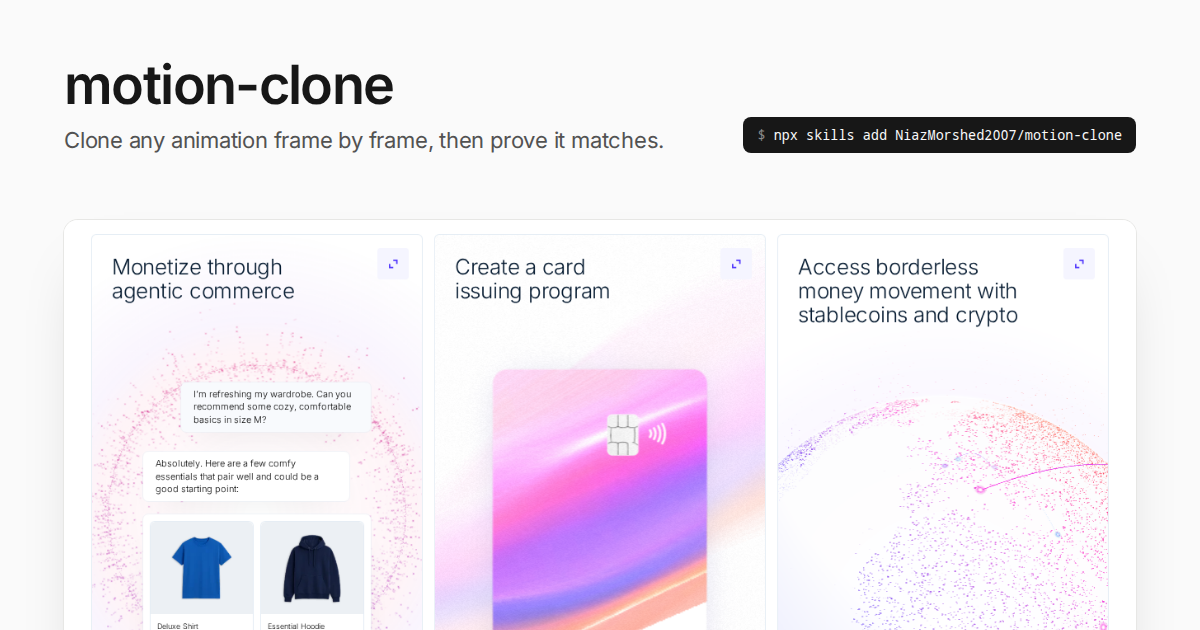
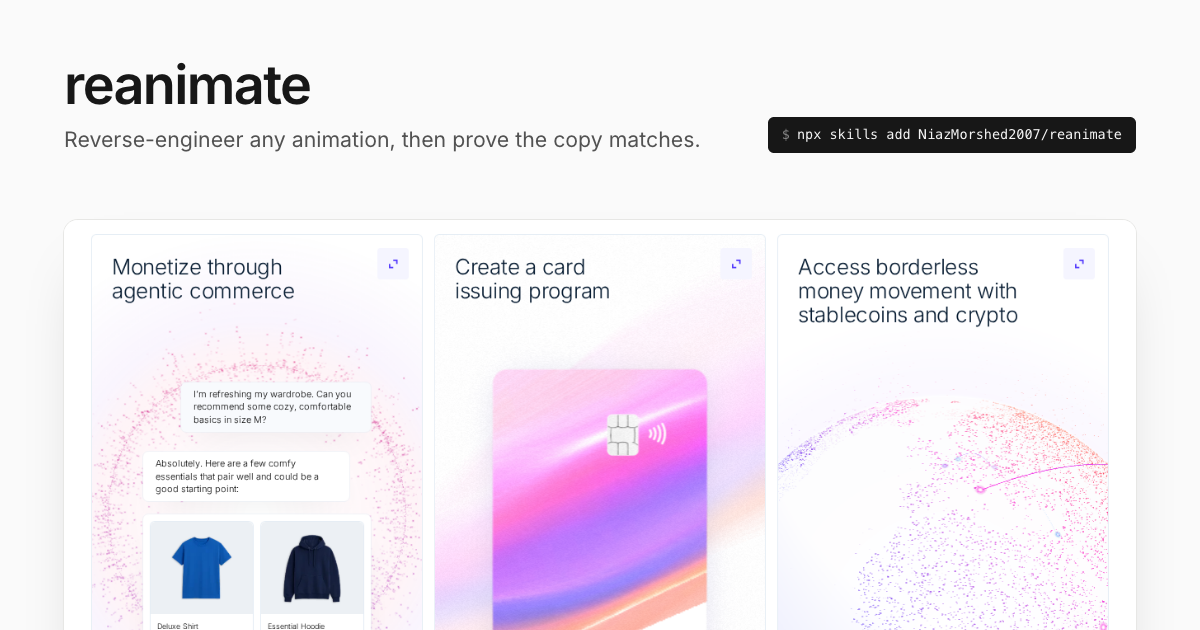
Rename motion-clone to reanimate
reanimate: reverse-engineer an animation, then bring it back to life in
your code. The skill folder, its name and /reanimate command, the
.reanimate/ working folder, package names, the Worker and every mention
on the site and in the README follow. og.png and the README animations
are re-lettered with the same fonts and encoder settings.

Changed region(s): [[0.0617, 0.0905, 0.3392, 0.181], [0.6167, 0.181, 0.9558, 0.2413], [0.0308, 0.2111, 0.5858, 0.2413]]

diff --git a/site/src/app/page.tsx b/site/src/app/page.tsx
@@ -5,8 +5,8 @@ import { Nav, type NavItem } from "@/components/Nav";
 import { Sidenote } from "@/components/Sidenote";
 import { examples, media, type Example } from "@/examples";
 
-const REPO = "https://github.com/NiazMorshed2007/motion-clone";
-const INSTALL = "npx skills add NiazMorshed2007/motion-clone -g";
+const REPO = "https://github.com/NiazMorshed2007/reanimate";
+const INSTALL = "npx skills add NiazMorshed2007/reanimate -g";
 
 const sections: NavItem[] = [
   { id: "how", label: "How it works" },
@@ -101,7 +101,7 @@ export default function Home() {
       <main className="main">
         <header className="masthead">
           <h1>
-            motion-clone <span>· a skill for Claude Code</span>
+            reanimate <span>· a skill for Claude Code</span>
           </h1>
           <div className="masthead__links">
             <a href={REPO}>GitHub</a>
@@ -114,11 +114,11 @@ export default function Home() {
 
         <CopyCommand command={INSTALL} />
         <p className="hint">
-          Then, in Claude Code, type <code>/motion-clone</code> and say what to copy. <a href="#use">How to ask ↓</a>
+          Then, in Claude Code, type <code>/reanimate</code> and say what to copy. <a href="#use">How to ask ↓</a>
         </p>
 
         <div className="meta">
-          <span>/motion-clone</span>
+          <span>/reanimate</span>
           <span><a href="#examples">{examples.length} live examples ↓</a></span>
           <span>by <a href="https://github.com/NiazMorshed2007">Niaz</a></span>
         </div>
@@ -127,7 +127,7 @@ export default function Home() {
           Copying an animation by eye rarely works. The copy looks right in a screenshot and feels off in motion: the easing is a bit sharper, a line starts a beat late. Nobody can say what’s wrong, so nobody fixes it.
         </p>
         <p>
-          motion-clone <em>measures</em> instead. Claude records the original, whether it’s a live site, a screen recording or a gif, writes down every timing and easing, and rebuilds it in your code. Then it records the copy the same way and compares the two until the numbers agree.
+          reanimate <em>measures</em> instead. Claude records the original, whether it’s a live site, a screen recording or a gif, writes down every timing and easing, and rebuilds it in your code. Then it records the copy the same way and compares the two until the numbers agree.
         </p>
 
         <figure className="figure">
@@ -171,7 +171,7 @@ export default function Home() {
             {prompts.map(([label, text]) => (
               <div key={label}>
                 <span className="prompt__label">{label}</span>
-                <span className="prompt__text"><span className="slash">/motion-clone</span> {text}</span>
+                <span className="prompt__text"><span className="slash">/reanimate</span> {text}</span>
               </div>
             ))}
           </div>
@@ -263,7 +263,7 @@ export default function Home() {
 
         <footer className="footer">
           <span>
-            <a href={REPO}>GitHub</a> · MIT licence · built with motion-clone
+            <a href={REPO}>GitHub</a> · MIT licence · built with reanimate
           </span>
           <span>The examples recreate parts of stripe.com, workos.com and clerk.com as a study of the technique. Not affiliated with or endorsed by Stripe, WorkOS or Clerk. All trademarks belong to their owners.</span>
         </footer>

diff --git a/site/public/examples/clerk-bento/src/widgets/api-keys.js b/site/public/examples/clerk-bento/src/widgets/api-keys.js
@@ -36,7 +36,7 @@
 // - The streaks mount on the frame after the pointer event (their clock starts on the frame after that); the
 //   lights' timers start at the pointer event; on hover-out the WAAPI values, the streaks' fade and the lights
 //   going dark start on the next frame. Interrupted animations continue from their current value.
-// Timing measured on clerk.com with virtual-clock captures: .motion-clone/clerk-bento/api-keys/ (spec.md).
+// Timing measured on clerk.com with virtual-clock captures: .reanimate/clerk-bento/api-keys/ (spec.md).
 // - The spinner follows mouseenter/mouseleave (clerk.com's separate isPointerOver state), the rest follows
 //   pointerenter/pointerleave with touch ignored (react-aria useHover).
 
@@ -302,7 +302,7 @@ export function mount(slot, card) {
   // ---------- hover ----------
   // react-aria useHover on the card (pointerenter/leave, touch ignored) drives everything but the spinner, which
   // follows clerk.com's separate isPointerOver state (mouseenter/leave). Timing measured on clerk.com
-  // (virtual-clock captures, see .motion-clone/clerk-bento/api-keys/): the JS values are timed from the pointer
+  // (virtual-clock captures, see .reanimate/clerk-bento/api-keys/): the JS values are timed from the pointer
   // event both ways, the WAAPI values from the event on hover-in and from the next frame on hover-out; the
   // lights' timers start at the event; the spinner, the streaks and the lights going dark follow on the next frame.
   let hovered = false;

diff --git a/site/src/app/layout.tsx b/site/src/app/layout.tsx
@@ -10,7 +10,7 @@ const mono = JetBrains_Mono({ variable: "--font-mono", subsets: ["latin"] });
 // environment) once the Worker has its final domain.
 const siteUrl = process.env.SITE_URL || "http://localhost:3000";
 
-const title = "motion-clone · a skill for Claude Code";
+const title = "reanimate · a skill for Claude Code";
 const description =
   "Point Claude at any animation, on a live site, in a video or a gif, and it rebuilds it frame by frame in your codebase, then records the copy and compares the two until they move the same.";
 
@@ -23,9 +23,9 @@ export const metadata: Metadata = {
     title,
     description,
     url: "/",
-    siteName: "motion-clone",
+    siteName: "reanimate",
     type: "website",
-    images: [{ url: "/og.png", width: 1200, height: 630, alt: "Three stripe.com cards rebuilt by motion-clone" }],
+    images: [{ url: "/og.png", width: 1200, height: 630, alt: "Three stripe.com cards rebuilt by reanimate" }],
   },
   twitter: { card: "summary_large_image", title, description, images: ["/og.png"] },
 };

diff --git a/site/public/examples/clerk-bento/src/widgets/social-sign-on.js b/site/public/examples/clerk-bento/src/widgets/social-sign-on.js
@@ -21,7 +21,7 @@
 // - the logo steps are a Motion useAnimate sequence called from the side streaks' onBegin, guarded by the
 //   `hovered` prop: every chip moves one slot (at:"<", all together); the chip that wraps from the last slot to the
 //   first jumps there instantly ({duration:0}), on the next frame (Motion resolves keyframes a frame later).
-// - Timing (measured on clerk.com with virtual-clock captures, .motion-clone/clerk-bento/social-sign-on/; every
+// - Timing (measured on clerk.com with virtual-clock captures, .reanimate/clerk-bento/social-sign-on/; every
 //   element starts on the same frame as there): the hover state is a zustand store read with useSyncExternalStore,
 //   so React renders, commits and runs effects in a microtask right after the pointer event. The streak canvas
 //   mounts (or re-renders) then and its clock starts on the next frame, once its glow image has loaded. Motion

diff --git a/site/scripts/record-media.ts b/site/scripts/record-media.ts
@@ -353,7 +353,7 @@ if (masters["stripe-bento-reference"]) {
   readmeWebp(
     [
       { ...masters["stripe-bento-reference"], strip: await strip(browser, "stripe.com", "the original", w) },
-      { ...masters["stripe-bento-clone"], strip: await strip(browser, "motion-clone", "the copy, filmed the same way", w) },
+      { ...masters["stripe-bento-clone"], strip: await strip(browser, "reanimate", "the copy, filmed the same way", w) },
     ],
     "stack",
     w,
@@ -367,7 +367,7 @@ if (masters["stripe-issuing-reference"]) {
   readmeWebp(
     [
       { ...masters["stripe-issuing-reference"], strip: await strip(browser, "stripe.com", "original", w / 2) },
-      { ...masters["stripe-issuing-clone"], strip: await strip(browser, "motion-clone", "copy", w / 2) },
+      { ...masters["stripe-issuing-clone"], strip: await strip(browser, "reanimate", "copy", w / 2) },
     ],
     "side",
     w,

diff --git a/site/public/examples/clerk-bento/src/widgets/fraud.js b/site/public/examples/clerk-bento/src/widgets/fraud.js
@@ -13,7 +13,7 @@
 //   linear() (one point per 10 ms); on finish the end value is written to the style.
 // - scale (the ✕ disc) and rotate (the spinner): Motion's JS loop, one value per animation frame, rendered as
 //   `transform: scale()/rotate()` ("none" at the default value).
-// - Timing, measured on clerk.com (virtual-clock captures with logged pointer events, .motion-clone/clerk-bento/
+// - Timing, measured on clerk.com (virtual-clock captures with logged pointer events, .reanimate/clerk-bento/
 //   fraud/): at the pointer event the running animations are stopped (a WAAPI one is sampled at that instant and the
 //   value committed; a JS one keeps its last frame); on the next frame the new animations are created from the current
 //   values, all back-dated to the event (Motion's createdAt). The meteor is mounted on the next frame.

diff --git a/site/public/examples/clerk-bento/src/widgets/session-management.js b/site/public/examples/clerk-bento/src/widgets/session-management.js
@@ -14,7 +14,7 @@
 //   animation frame, colours mixed as sqrt(a²(1−p)+b²p) per channel.
 // - A transition without `ease` uses Motion's default "easeOut" = cubic-bezier(0,0,.58,1); one with only a delay
 //   uses Motion's default tween (0.3 s, cubic-bezier(.25,.1,.35,1)).
-// - Timing, measured on clerk.com (virtual-clock captures, see .motion-clone/clerk-bento/session-management/):
+// - Timing, measured on clerk.com (virtual-clock captures, see .reanimate/clerk-bento/session-management/):
 //   on hover-in the WAAPI animations are back-dated to the pointer event (Motion sets animation.startTime), the
 //   JS-driven values start on the next frame, and the meteor mounts on the next frame (React runs its effect
 //   after paint) so its clock starts one frame later still; on hover-out everything starts on the next frame.

diff --git a/site/public/examples/clerk-bento/src/widgets/clerk-cli.css b/site/public/examples/clerk-bento/src/widgets/clerk-cli.css
@@ -1,7 +1,7 @@
 /* "Clerk CLI" card visual: a glass terminal edge on the left, circuit lines into a round Clerk-logo button, and a
    ring of AI-tool logos on the right; on hover the logo lights up cyan, meteors run along the lines and the logos
    step round the ring (clerk-cli.js). Every value is clerk.com's resolved Tailwind at lg (module 731855,
-   .motion-clone/clerk-bento/dom/clerk-cli.html); colours with alpha use the same color-mix()/lab() as clerk.com's
+   .reanimate/clerk-bento/dom/clerk-cli.html); colours with alpha use the same color-mix()/lab() as clerk.com's
    @supports branches, gradients the same "in oklab" interpolation. Stacking is clerk.com's: inside the masked layer
    the meteor tracks and the carousel are z-auto (in that order), the lines z-5, the panel and the button z-10. */
 

diff --git a/site/public/examples/clerk-bento/src/widgets/magic-links.js b/site/public/examples/clerk-bento/src/widgets/magic-links.js
@@ -3,7 +3,7 @@
 // in (3.6 s), then the profile swings out on a wheel and a random next user swings in, and the cycle repeats every
 // 5.2 s while hovered. Hover-out fades the hovered layers (0.3 s) and slides the name back; the current user stays.
 //
-// clerk.com builds it with Motion for React (module 642634, .motion-clone/clerk-bento/src/magic-links.module.js).
+// clerk.com builds it with Motion for React (module 642634, .reanimate/clerk-bento/src/magic-links.module.js).
 // This file mirrors that component tree in plain DOM:
 //   - keyed parts are re-created when the user changes (NoiseCode, the cyan code, the scanner, the profile), and
 //     AnimatePresence semantics are kept: exiting parts keep their last props (frozen) while their exit runs, new

diff --git a/site/public/examples/clerk-bento/src/widgets/advanced-security.css b/site/public/examples/clerk-bento/src/widgets/advanced-security.css
@@ -1,6 +1,6 @@
 /* "Advanced security" card visual: a round fingerprint button between two notched side panels, under a
    top-down radial vignette; on hover a WebGL2 dot field and a glow ring are mounted (advanced-security.js).
-   Every value is clerk.com's resolved Tailwind (module 561502, .motion-clone/clerk-bento/dom/advanced-security.html);
+   Every value is clerk.com's resolved Tailwind (module 561502, .reanimate/clerk-bento/dom/advanced-security.html);
    colours with alpha use the same color-mix()/lab() as clerk.com's @supports branches, gradients the same
    "in oklab" interpolation. Stacking is clerk.com's: the slot is isolated, the panels and the dot field are
    z-auto (under the z-10 vignette), the button layers are z-10 (over it). */

diff --git a/site/public/examples/clerk-bento/src/widgets/magic-links.css b/site/public/examples/clerk-bento/src/widgets/magic-links.css
@@ -1,7 +1,7 @@
 /* "Magic Links" card visual: a field of mono noise text, a code chip that a cyan scan line reveals, a profile
    card (avatar silhouette, name, email) that traces in cyan, gets a check, and rotates out to the next user.
    Sizes, colours, gradients and shadows are clerk.com's resolved Tailwind values (module 642634,
-   .motion-clone/clerk-bento/dom/magic-links.html + .hover.html); colours with alpha use the same color-mix() as
+   .reanimate/clerk-bento/dom/magic-links.html + .hover.html); colours with alpha use the same color-mix() as
    clerk.com's @supports branch. magic-links.js builds the keyed parts and animates them. */
 
 .clerk-card--magic-links .ml-root {

diff --git a/site/public/examples/clerk-bento/src/widgets/social-sign-on.html b/site/public/examples/clerk-bento/src/widgets/social-sign-on.html
@@ -1,5 +1,5 @@
 <!-- Social Sign-On card visual: clerk.com's markup (module 593274), SVG copied verbatim, Tailwind classes resolved
-     in social-sign-on.css. Motion: social-sign-on.js. Built by .motion-clone/clerk-bento/social-sign-on/tools/gen-html.py -->
+     in social-sign-on.css. Motion: social-sign-on.js. Built by .reanimate/clerk-bento/social-sign-on/tools/gen-html.py -->
 <div class="sso-bg">
   <div class="sso-column">
     <svg class="sso-lines" viewBox="0 0 98 192" fill="none" aria-hidden="true"><path stroke="#fff" stroke-opacity=".06" d="M49 192V96.266a8 8 0 0 0-2.285-5.599L3.285 46.333A8 8 0 0 1 1 40.734V-28M49 93l45.715-46.667A8 8 0 0 0 97 40.734V-23"></path></svg>
